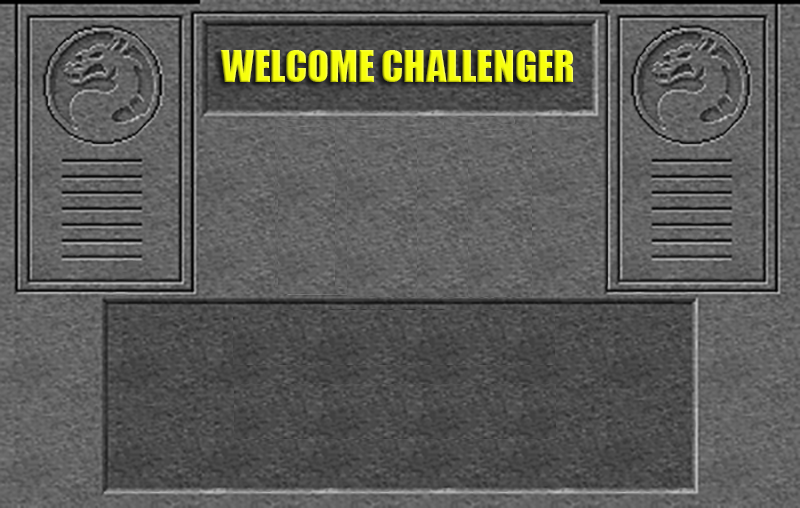
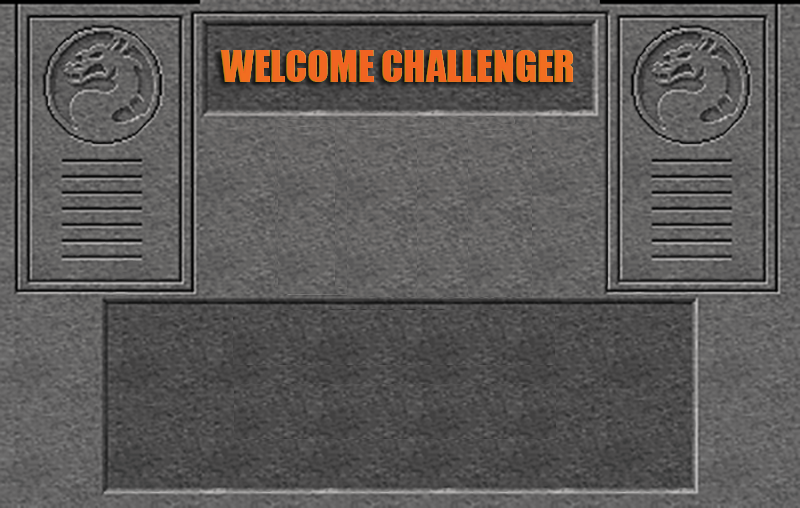
Current vs page theming

Changed region(s): [[0.2812, 0.0886, 0.7188, 0.1772]]

diff --git a/app/themes/mortalkombatclassic/style.css b/app/themes/mortalkombatclassic/style.css
@@ -45,8 +45,9 @@ body {
 
 .playerbox {
   position: relative;
-  top: 65%;
+  top: 66%;
   text-align: center;
+  margin: 0 auto;
 }
 
 .welcomeplayer, .locationtext  {
@@ -56,7 +57,6 @@ body {
   font-family: "HelveticaNeue-bold", "Helvetica Neue Bold", "Helvetica Neue", Helvetica, Arial, "Lucida Grande", sans-serif;
   text-transform: uppercase;
   text-shadow: 4px 4px 2px #000;
-  /*font-family: Impact, Charcoal, sans-serif;*/
   letter-spacing: 2px;
   padding: 10px;
 }
